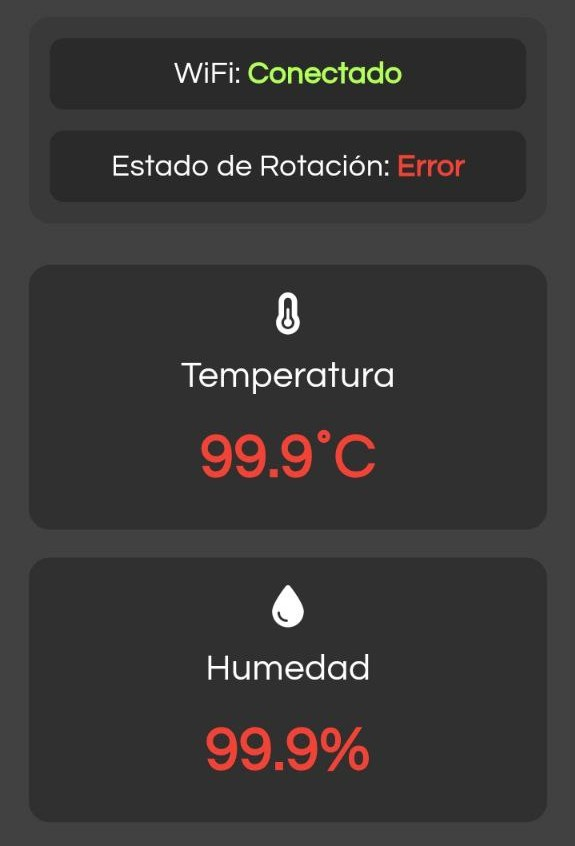
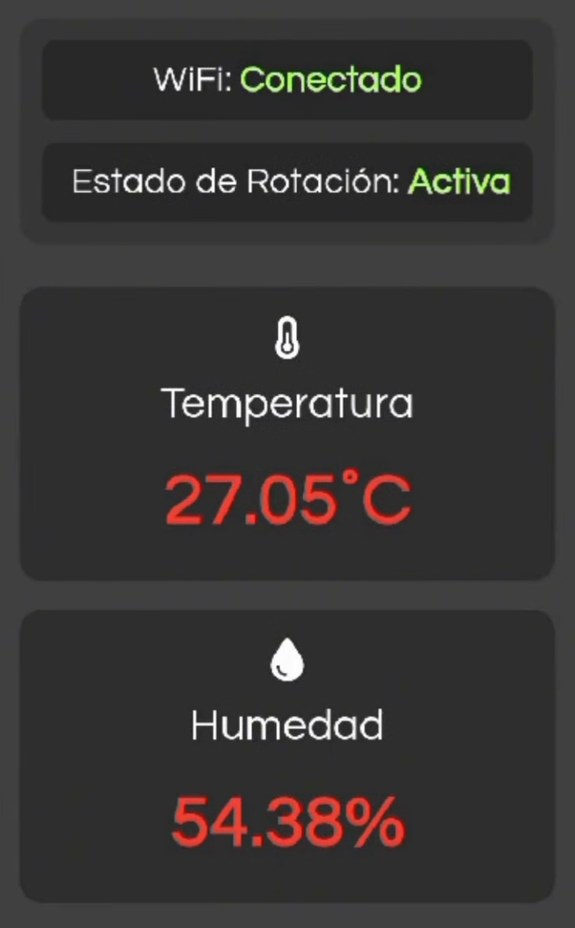
Fotos: captura de la app sin errores y fotos propias en Proyecto
- App: la captura de la pantalla principal mostraba rotación en Error y
  99.9 °C / 99.9 %; se reemplaza por un cuadro del video de la app.
- Proyecto, Dependencia tecnológica: la incubadora Yonar se reemplaza
  por nuestra LibreIncu-150 en uso.
- Proyecto, Dependencia alimentaria: mezcla de alimento casero en un
  taller de la Cooperativa Gallo Rojo.

diff --git a/prototipo/v2/proyecto.html b/prototipo/v2/proyecto.html
@@ -59,8 +59,8 @@
     <div class="scrolly">
       <div class="medios" data-m>
         <figure class="foto activa"><img loading="lazy" src="../assets/pollitos.jpg" alt="Cajas con pollitos bebé"></figure>
-        <figure class="foto"><img loading="lazy" src="../assets/gallinas.jpg" alt="Gallinas en un gallinero bajo los árboles"></figure>
-        <figure class="foto"><img loading="lazy" src="../assets/incubadoras.jpg" alt="Incubadoras en una sala"></figure>
+        <figure class="foto"><img loading="lazy" src="../assets/alimento-mezcla.jpg" alt="Mezcla de alimento balanceado casero con pala, en un taller de la Cooperativa Gallo Rojo"></figure>
+        <figure class="foto"><img loading="lazy" src="../assets/libreincu-150-en-uso.jpg" alt="Incubadora LibreIncu 150 en uso en la casa de una familia productora"></figure>
         <span class="num" aria-hidden="true">01</span>
       </div>
       <div>
